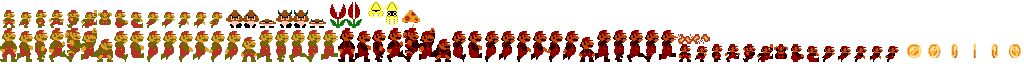
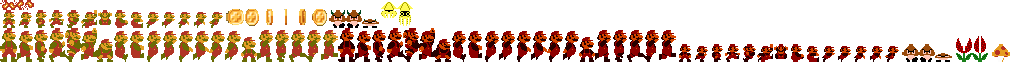
Com problemas a criar head de goomba

diff --git a/core/src/com/mygame/mario/Levels/BaseScreen.java b/core/src/com/mygame/mario/Levels/BaseScreen.java
@@ -1,42 +1,28 @@
 package com.mygame.mario.Levels;
 
 import com.badlogic.gdx.Gdx;
-import com.badlogic.gdx.Input;
 import com.badlogic.gdx.Screen;
-import com.badlogic.gdx.assets.loaders.resolvers.InternalFileHandleResolver;
 import com.badlogic.gdx.graphics.GL20;
 import com.badlogic.gdx.graphics.OrthographicCamera;
 import com.badlogic.gdx.graphics.g2d.TextureAtlas;
-import com.badlogic.gdx.maps.MapObject;
-import com.badlogic.gdx.maps.objects.RectangleMapObject;
 import com.badlogic.gdx.maps.tiled.TiledMap;
 import com.badlogic.gdx.maps.tiled.TmxMapLoader;
 import com.badlogic.gdx.maps.tiled.renderers.OrthogonalTiledMapRenderer;
-import com.badlogic.gdx.math.Rectangle;
 import com.badlogic.gdx.math.Vector2;
-import com.badlogic.gdx.physics.box2d.Body;
-import com.badlogic.gdx.physics.box2d.BodyDef;
-import com.badlogic.gdx.physics.box2d.Box2D;
 import com.badlogic.gdx.physics.box2d.Box2DDebugRenderer;
-import com.badlogic.gdx.physics.box2d.FixtureDef;
-import com.badlogic.gdx.physics.box2d.PolygonShape;
 import com.badlogic.gdx.physics.box2d.World;
 import com.badlogic.gdx.scenes.scene2d.InputEvent;
 import com.badlogic.gdx.scenes.scene2d.InputListener;
 import com.badlogic.gdx.scenes.scene2d.ui.Skin;
 import com.badlogic.gdx.scenes.scene2d.ui.TextButton;
-import com.badlogic.gdx.scenes.scene2d.utils.ClickListener;
-import com.badlogic.gdx.utils.viewport.FitViewport;
 import com.badlogic.gdx.utils.viewport.StretchViewport;
 import com.badlogic.gdx.utils.viewport.Viewport;
-import com.mygame.mario.Characters.Enemys;
 import com.mygame.mario.Characters.Goomba;
 import com.mygame.mario.Characters.Mario;
+import com.mygame.mario.Logic.LoadMap;
 import com.mygame.mario.Logic.WorldContactListener;
 import com.mygame.mario.MainClass;
 import com.mygame.mario.Scenes.Hud;
-import com.mygame.mario.Logic.LoadMap;
-import com.mygame.mario.Scenes.MainMenu;
 
 public class BaseScreen implements Screen {
 
@@ -80,7 +66,7 @@ public class BaseScreen implements Screen {
         hud = new Hud(game.batch);
 
         maploader = new TmxMapLoader();
-        map = level();
+        map = level("level1m.tmx");
         renderer = new OrthogonalTiledMapRenderer(map, 1/MainClass.PPM);
         //gameCam.position.set(gamePort.getScreenWidth()/2, gamePort.getScreenHeight()/2, 0);
         gameCam.position.set(0, 1, 0);
@@ -91,7 +77,7 @@ public class BaseScreen implements Screen {
 
         world = new World (new Vector2(0, -10f), true);
         player = new Mario(this);
-        goomba = new Goomba(this, 32f, 32f);
+        goomba = new Goomba(this,25,25);
 
         world.setContactListener(new WorldContactListener());
 
@@ -109,10 +95,10 @@ public class BaseScreen implements Screen {
     }
 
     //function that load levels
-    public TiledMap level()
+    public TiledMap level(String level)
     {
         TiledMap map;
-        map = maploader.load("level1m.tmx");
+        map = maploader.load(level);
         return map;
     }
 
@@ -239,7 +225,7 @@ public class BaseScreen implements Screen {
         //&& (!(Gdx.input.isButtonPressed((int) ((int) buttonUp.getX() + buttonUp.getWidth())))
 
         //for android
-        if(Gdx.input.isTouched() && (!(buttonUp.isPressed())))
+        if(Gdx.input.isTouched()  && (!(buttonUp.isPressed())))
         {
             //rigth one
             if ((Gdx.input.getX() > Gdx.graphics.getWidth() / 2) && (player.body.getLinearVelocity().x <= 2))
@@ -262,9 +248,9 @@ public class BaseScreen implements Screen {
         handleInput(fl);
 
         world.step(1/60f, 6, 2);
-
-        player.update(fl);
         goomba.update(fl);
+        player.update(fl);
+
         hud.update(fl);
 
         gameCam.position.x = player.body.getPosition().x;

diff --git a/core/src/com/mygame/mario/Scenes/Hud.java b/core/src/com/mygame/mario/Scenes/Hud.java
@@ -14,7 +14,7 @@ import com.badlogic.gdx.scenes.scene2d.ui.Label;
 import java.awt.Color;
 import java.awt.Label;*/
 
-import com.badlogic.gdx.Gdx;
+import com.badlogic.gdx.audio.Music;
 import com.badlogic.gdx.graphics.Color;
 import com.badlogic.gdx.graphics.OrthographicCamera;
 import com.badlogic.gdx.graphics.g2d.BitmapFont;
@@ -32,7 +32,7 @@ public class Hud implements Disposable{
     private Viewport viewport;
 
     private static Integer score;
-    private Integer time;
+    private Integer time; //InGame time
     private float countTime;
 
     private Label lcount;
@@ -43,11 +43,11 @@ public class Hud implements Disposable{
     private Label lmario;
 
     public Hud(SpriteBatch sbatch) {
-        time = 100;
+        time = 300;
         countTime = 0;
         score = 0;
 
-        viewport = new FitViewport(MainClass.V_WIDTH, MainClass.V_HEIGTH, new OrthographicCamera());
+        viewport = new FitViewport(MainClass.V_WIDTH, MainClass.V_HEIGTH, new OrthographicCamera()); //Creates camera with set dimensions
         stage = new Stage(viewport, sbatch);
 
         Table table = new Table();
@@ -58,7 +58,7 @@ public class Hud implements Disposable{
         lcount = new Label(String.format("%03d", time), new Label.LabelStyle(new BitmapFont(), Color.WHITE));
         lscore = new Label(String.format("%06d", score),new Label.LabelStyle(new BitmapFont(), Color.WHITE));
         ltime = new Label("TIME", new Label.LabelStyle(new BitmapFont(), Color.WHITE));
-        llevel = new Label("1-3", new Label.LabelStyle(new BitmapFont(), Color.WHITE));
+        llevel = new Label("1-1", new Label.LabelStyle(new BitmapFont(), Color.WHITE));
         lworld = new Label("WORLD", new Label.LabelStyle(new BitmapFont(), Color.WHITE));
         lmario = new Label("MARIO", new Label.LabelStyle(new BitmapFont(), Color.WHITE));
 
@@ -70,10 +70,11 @@ public class Hud implements Disposable{
         table.add(ltime).expandX().padBottom(5);
             //second line
         table.row();
-        table.add(lscore).expandX();
-        table.add(llevel).expandX();
-        table.add(lcount).expand();
+        table.add(lscore).expandX().padBottom(350);
+        table.add(llevel).expandX().padBottom(350);
+        table.add(lcount).expandX().padBottom(350);
 
+        MainClass.manager.get("Audio/music/mario_music.ogg",Music.class).play();
         stage.addActor(table);
     }
 
@@ -98,5 +99,6 @@ public class Hud implements Disposable{
     @Override
     public void dispose() {
         stage.dispose();
+
     }
 }

diff --git a/core/src/com/mygame/mario/Characters/Goomba.java b/core/src/com/mygame/mario/Characters/Goomba.java
@@ -1,9 +1,6 @@
 package com.mygame.mario.Characters;
 
-import com.badlogic.gdx.audio.Sound;
-import com.badlogic.gdx.graphics.Texture;
 import com.badlogic.gdx.graphics.g2d.Animation;
-import com.badlogic.gdx.graphics.g2d.Batch;
 import com.badlogic.gdx.graphics.g2d.TextureRegion;
 import com.badlogic.gdx.math.Vector2;
 import com.badlogic.gdx.physics.box2d.BodyDef;
@@ -22,7 +19,7 @@ public class Goomba extends Enemys {
 
     public Goomba(BaseScreen screen, float x, float y) {
         super(screen, x, y);
-        //screen.getTexAtlas().findRegion("Sprites_ready/goomba_edited")
+        screen.getTexAtlas().findRegion("goomba_edited");
 
         frames = new Array<TextureRegion> ();
         loadTextures();
@@ -37,7 +34,7 @@ public class Goomba extends Enemys {
         for(int i = 1; i < 3; i++)
         {
             //region loaded
-            frames.add(new TextureRegion(screen.getTexAtlas().findRegion("Sprites_ready/goomba_edited"), i*16, 0, 16, 16));
+            frames.add(new TextureRegion(screen.getTexAtlas().findRegion("goomba_edited"), i*16, 0, 16, 16));
         }
         goombaRun = new Animation(0.4f, frames);
         //frames.clear();
@@ -47,7 +44,7 @@ public class Goomba extends Enemys {
     protected void defineEnenmy() {
         BodyDef bodyd = new BodyDef();
         //goomba ta a frente do mario
-        bodyd.position.set(12/ MainClass.PPM, 12/ MainClass.PPM);
+        bodyd.position.set(50/ MainClass.PPM, 50/ MainClass.PPM);
         bodyd.type = BodyDef.BodyType.DynamicBody;
 
         body = world.createBody(bodyd);
@@ -62,6 +59,19 @@ public class Goomba extends Enemys {
         fixtured.shape = cshape;
         body.createFixture(fixtured);
 
+        //Head
+
+        PolygonShape head = new PolygonShape();
+        Vector2[] vertice = new Vector2[4];
+        vertice[0]=new Vector2(-5,8).scl(1/MainClass.PPM);
+        vertice[1]=new Vector2(5,8).scl(1/MainClass.PPM);
+        vertice[2]=new Vector2(-3,3).scl(1/MainClass.PPM);
+        vertice[3]=new Vector2(3,3).scl(1/MainClass.PPM);
+        /* Esta a crashar por razão nenhuma, definiria a cabeca do mario
+        fixtured.shape = head;
+        fixtured.restitution = 0.5f;
+        fixtured.filter.categoryBits = MainClass.ENEMY_HEAD_BIT;
+        body.createFixture(fixtured).setUserData("head");*/
     }
 
     public void update(float fl) {

diff --git a/core/src/com/mygame/mario/Logic/LoadMap.java b/core/src/com/mygame/mario/Logic/LoadMap.java
@@ -10,6 +10,7 @@ import com.badlogic.gdx.physics.box2d.FixtureDef;
 import com.badlogic.gdx.physics.box2d.PolygonShape;
 import com.badlogic.gdx.physics.box2d.World;
 import com.mygame.mario.Characters.Bricks;
+import com.mygame.mario.Characters.Coin;
 import com.mygame.mario.Characters.Qmark;
 import com.mygame.mario.Levels.BaseScreen;
 import com.mygame.mario.MainClass;
@@ -22,6 +23,7 @@ public class LoadMap {
     private Body body;
     private Qmark qmark;
     private Bricks bricks;
+    private Coin coin;
 
     private World world;
     private TiledMap map;
@@ -124,6 +126,34 @@ public class LoadMap {
             Rectangle rectangle = ((RectangleMapObject) object).getRectangle();
             qmark = new Qmark(screen, rectangle);
         }
+    /*
+        // recognize goombas Por agora não funciona
+        for (MapObject object : map.getLayers().get(11).getObjects().getByType(RectangleMapObject.class))
+        {
+            Rectangle rectangle = ((RectangleMapObject) object).getRectangle();
+            bodyd.type = BodyDef.BodyType.KinematicBody;
+            bodyd.position.set((rectangle.getX() + rectangle.getWidth() / 2) / MainClass.PPM, (rectangle.getY() + rectangle.getHeight() / 2) / MainClass.PPM);
 
+            body = world.createBody(bodyd);
+
+            shape.setAsBox(rectangle.getWidth() / 2 / MainClass.PPM, rectangle.getHeight() / 2 / MainClass.PPM);
+            fixtured.shape = shape;
+            body.createFixture(fixtured);
+        }
+
+        // recognize plants
+        for (MapObject object : map.getLayers().get(12).getObjects().getByType(RectangleMapObject.class))
+        {
+            Rectangle rectangle = ((RectangleMapObject) object).getRectangle();
+            bodyd.type = BodyDef.BodyType.KinematicBody;
+            bodyd.position.set((rectangle.getX() + rectangle.getWidth() / 2) / MainClass.PPM, (rectangle.getY() + rectangle.getHeight() / 2) / MainClass.PPM);
+
+            body = world.createBody(bodyd);
+
+            shape.setAsBox(rectangle.getWidth() / 2 / MainClass.PPM, rectangle.getHeight() / 2 / MainClass.PPM);
+            fixtured.shape = shape;
+            body.createFixture(fixtured);
+        }
+*/
     }
 }

diff --git a/core/src/com/mygame/mario/Characters/Mario.java b/core/src/com/mygame/mario/Characters/Mario.java
@@ -8,11 +8,8 @@ import com.badlogic.gdx.physics.box2d.Body;
 import com.badlogic.gdx.physics.box2d.BodyDef;
 import com.badlogic.gdx.physics.box2d.CircleShape;
 import com.badlogic.gdx.physics.box2d.EdgeShape;
-import com.badlogic.gdx.physics.box2d.Filter;
-import com.badlogic.gdx.physics.box2d.Fixture;
 import com.badlogic.gdx.physics.box2d.FixtureDef;
 import com.badlogic.gdx.physics.box2d.World;
-import com.badlogic.gdx.scenes.scene2d.Actor;
 import com.badlogic.gdx.utils.Array;
 import com.mygame.mario.Levels.BaseScreen;
 import com.mygame.mario.MainClass;
@@ -37,7 +34,7 @@ public class Mario extends Sprite {
 
     public Mario (BaseScreen screen)
     {
-        super(screen.getTexAtlas().findRegion("Sprites_ready/big_mario"));
+        super(screen.getTexAtlas().findRegion("big_mario"));
         this.world = screen.getWorld();
 
         currentState = State.Stand;
@@ -51,6 +48,7 @@ public class Mario extends Sprite {
         defineMario();
 
         marioRegion = new TextureRegion(getTexture(), 0, 10, 16, 16);
+
         setBounds(0, 0, 16 / MainClass.PPM, 16 / MainClass.PPM);
         setRegion(marioRegion);
 
@@ -156,7 +154,7 @@ public class Mario extends Sprite {
         cshape.setRadius(6 / MainClass.PPM);
 
         fixtured.filter.categoryBits = MainClass.MARO_BIT;
-        fixtured.filter.maskBits = MainClass.DEFAULT_BIT | MainClass.COIN_BIT | MainClass.BRICK_BIT | MainClass.ENEMY_BIT | MainClass.OBJECT_BIT;
+        fixtured.filter.maskBits = MainClass.DEFAULT_BIT | MainClass.COIN_BIT | MainClass.BRICK_BIT | MainClass.ENEMY_BIT | MainClass.OBJECT_BIT | MainClass.ENEMY_HEAD_BIT;
 
         fixtured.shape = cshape;
         body.createFixture(fixtured);

diff --git a/core/src/com/mygame/mario/Logic/WorldContactListener.java b/core/src/com/mygame/mario/Logic/WorldContactListener.java
@@ -1,13 +1,14 @@
 package com.mygame.mario.Logic;
 
 
-import com.badlogic.gdx.Gdx;
 import com.badlogic.gdx.audio.Sound;
 import com.badlogic.gdx.physics.box2d.Contact;
 import com.badlogic.gdx.physics.box2d.ContactImpulse;
 import com.badlogic.gdx.physics.box2d.ContactListener;
 import com.badlogic.gdx.physics.box2d.Fixture;
 import com.badlogic.gdx.physics.box2d.Manifold;
+import com.mygame.mario.Characters.Bricks;
+import com.mygame.mario.Characters.Coin;
 import com.mygame.mario.Characters.InteractiveObjects;
 import com.mygame.mario.MainClass;
 
@@ -25,7 +26,13 @@ public class WorldContactListener implements ContactListener {
             Fixture head = fixA.getUserData() == "head" ? fixA : fixB;
             Fixture object = head == fixA ? fixB : fixA;
 
-            if(object.getUserData() instanceof InteractiveObjects)
+            if(object.getUserData() instanceof Bricks || object.getUserData() instanceof Coin)
+            {
+                ((InteractiveObjects) object.getUserData()).HeadColission();
+                MainClass.manager.get("Audio/sounds/coin.wav",Sound.class).play();
+            }
+
+            else if(object.getUserData() instanceof InteractiveObjects)
             {
                 ((InteractiveObjects) object.getUserData()).HeadColission();
                 MainClass.manager.get("Audio/sounds/bump.wav",Sound.class).play();

diff --git a/core/src/com/mygame/mario/MainClass.java b/core/src/com/mygame/mario/MainClass.java
@@ -1,18 +1,10 @@
 package com.mygame.mario;
 
-import com.badlogic.gdx.ApplicationAdapter;
 import com.badlogic.gdx.Game;
-import com.badlogic.gdx.Gdx;
 import com.badlogic.gdx.assets.AssetManager;
 import com.badlogic.gdx.audio.Music;
 import com.badlogic.gdx.audio.Sound;
-import com.badlogic.gdx.graphics.GL20;
-import com.badlogic.gdx.graphics.Texture;
 import com.badlogic.gdx.graphics.g2d.SpriteBatch;
-import com.mygame.mario.Levels.BaseScreen;
-import com.mygame.mario.Levels.Level1;
-import com.mygame.mario.Levels.Level2;
-import com.mygame.mario.Levels.Level3;
 import com.mygame.mario.Scenes.MainMenu;
 
 public class MainClass extends Game {
@@ -29,7 +21,7 @@ public class MainClass extends Game {
 	public static final short DESTROYRD_BIT = 16;
 	public static final short OBJECT_BIT = 32;
 	public static final short ENEMY_BIT = 64;
-
+	public static final short ENEMY_HEAD_BIT = 128;
 	public SpriteBatch batch;
 	public static AssetManager manager;
 
@@ -51,11 +43,12 @@ public class MainClass extends Game {
 
 		setScreen(new MainMenu(this));
 
-		MainClass.manager.get("Audio/music/mario_music.ogg",Music.class).play();
+
 	}
 
 	@Override
 	public void render () {
+
 		super.render();
 	}
 	

diff --git a/core/src/com/mygame/mario/Characters/CoinBrick.java b/core/src/com/mygame/mario/Characters/CoinBrick.java
@@ -1,10 +1,8 @@
 package com.mygame.mario.Characters;
 
 import com.badlogic.gdx.Gdx;
-import com.badlogic.gdx.maps.tiled.TiledMap;
 import com.badlogic.gdx.maps.tiled.TiledMapTileSet;
 import com.badlogic.gdx.math.Rectangle;
-import com.badlogic.gdx.physics.box2d.World;
 import com.mygame.mario.Levels.BaseScreen;
 import com.mygame.mario.MainClass;
 import com.mygame.mario.Scenes.Hud;

diff --git a/core/src/com/mygame/mario/Characters/Coin.java b/core/src/com/mygame/mario/Characters/Coin.java
@@ -1,0 +1,7 @@
+package com.mygame.mario.Characters;
+
+import com.badlogic.gdx.graphics.g2d.Sprite;
+
+public class Coin extends Sprite {
+
+}
